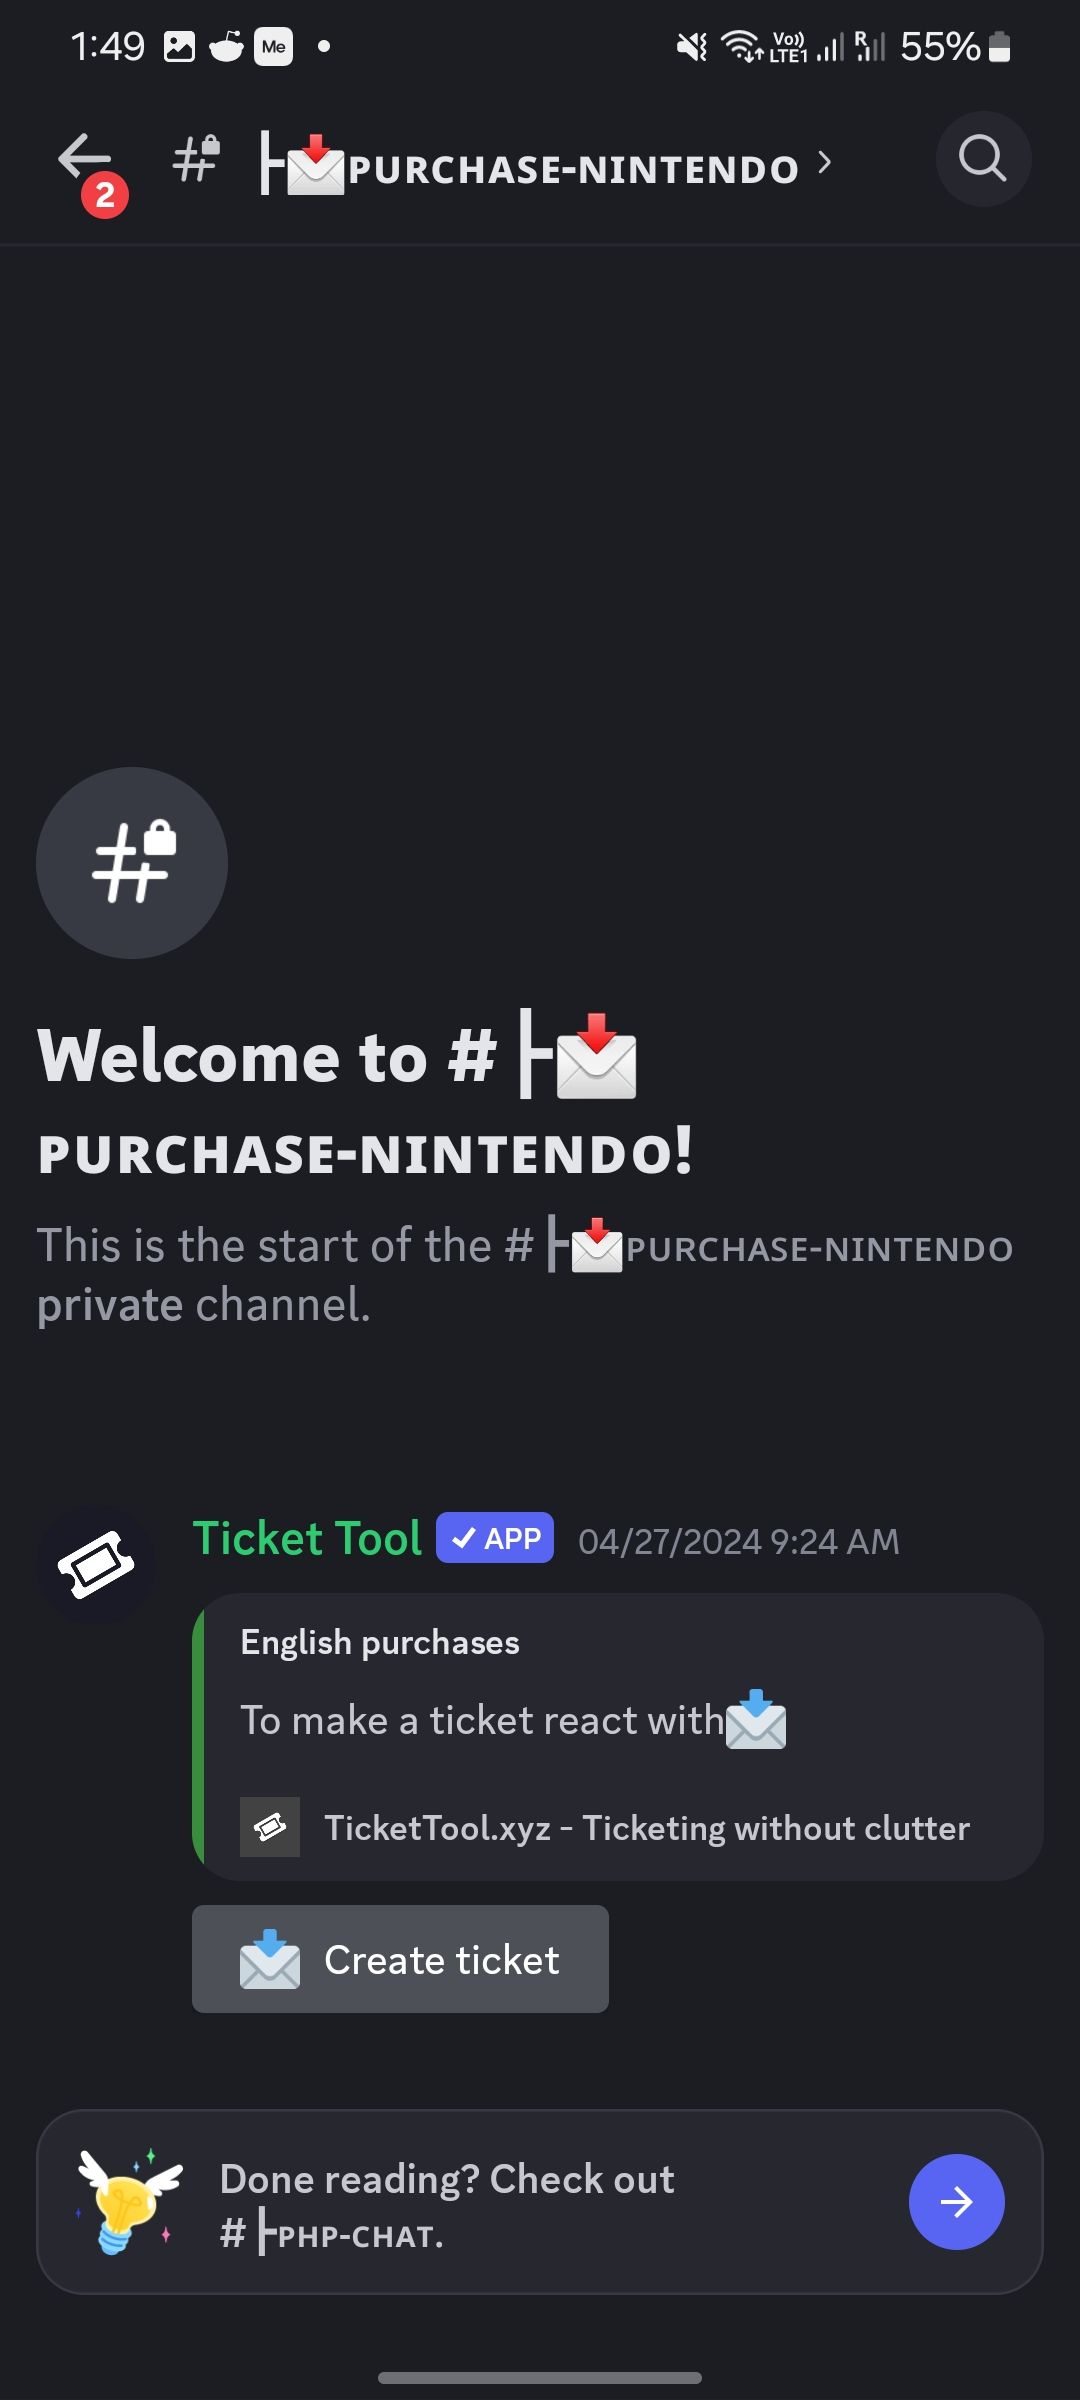
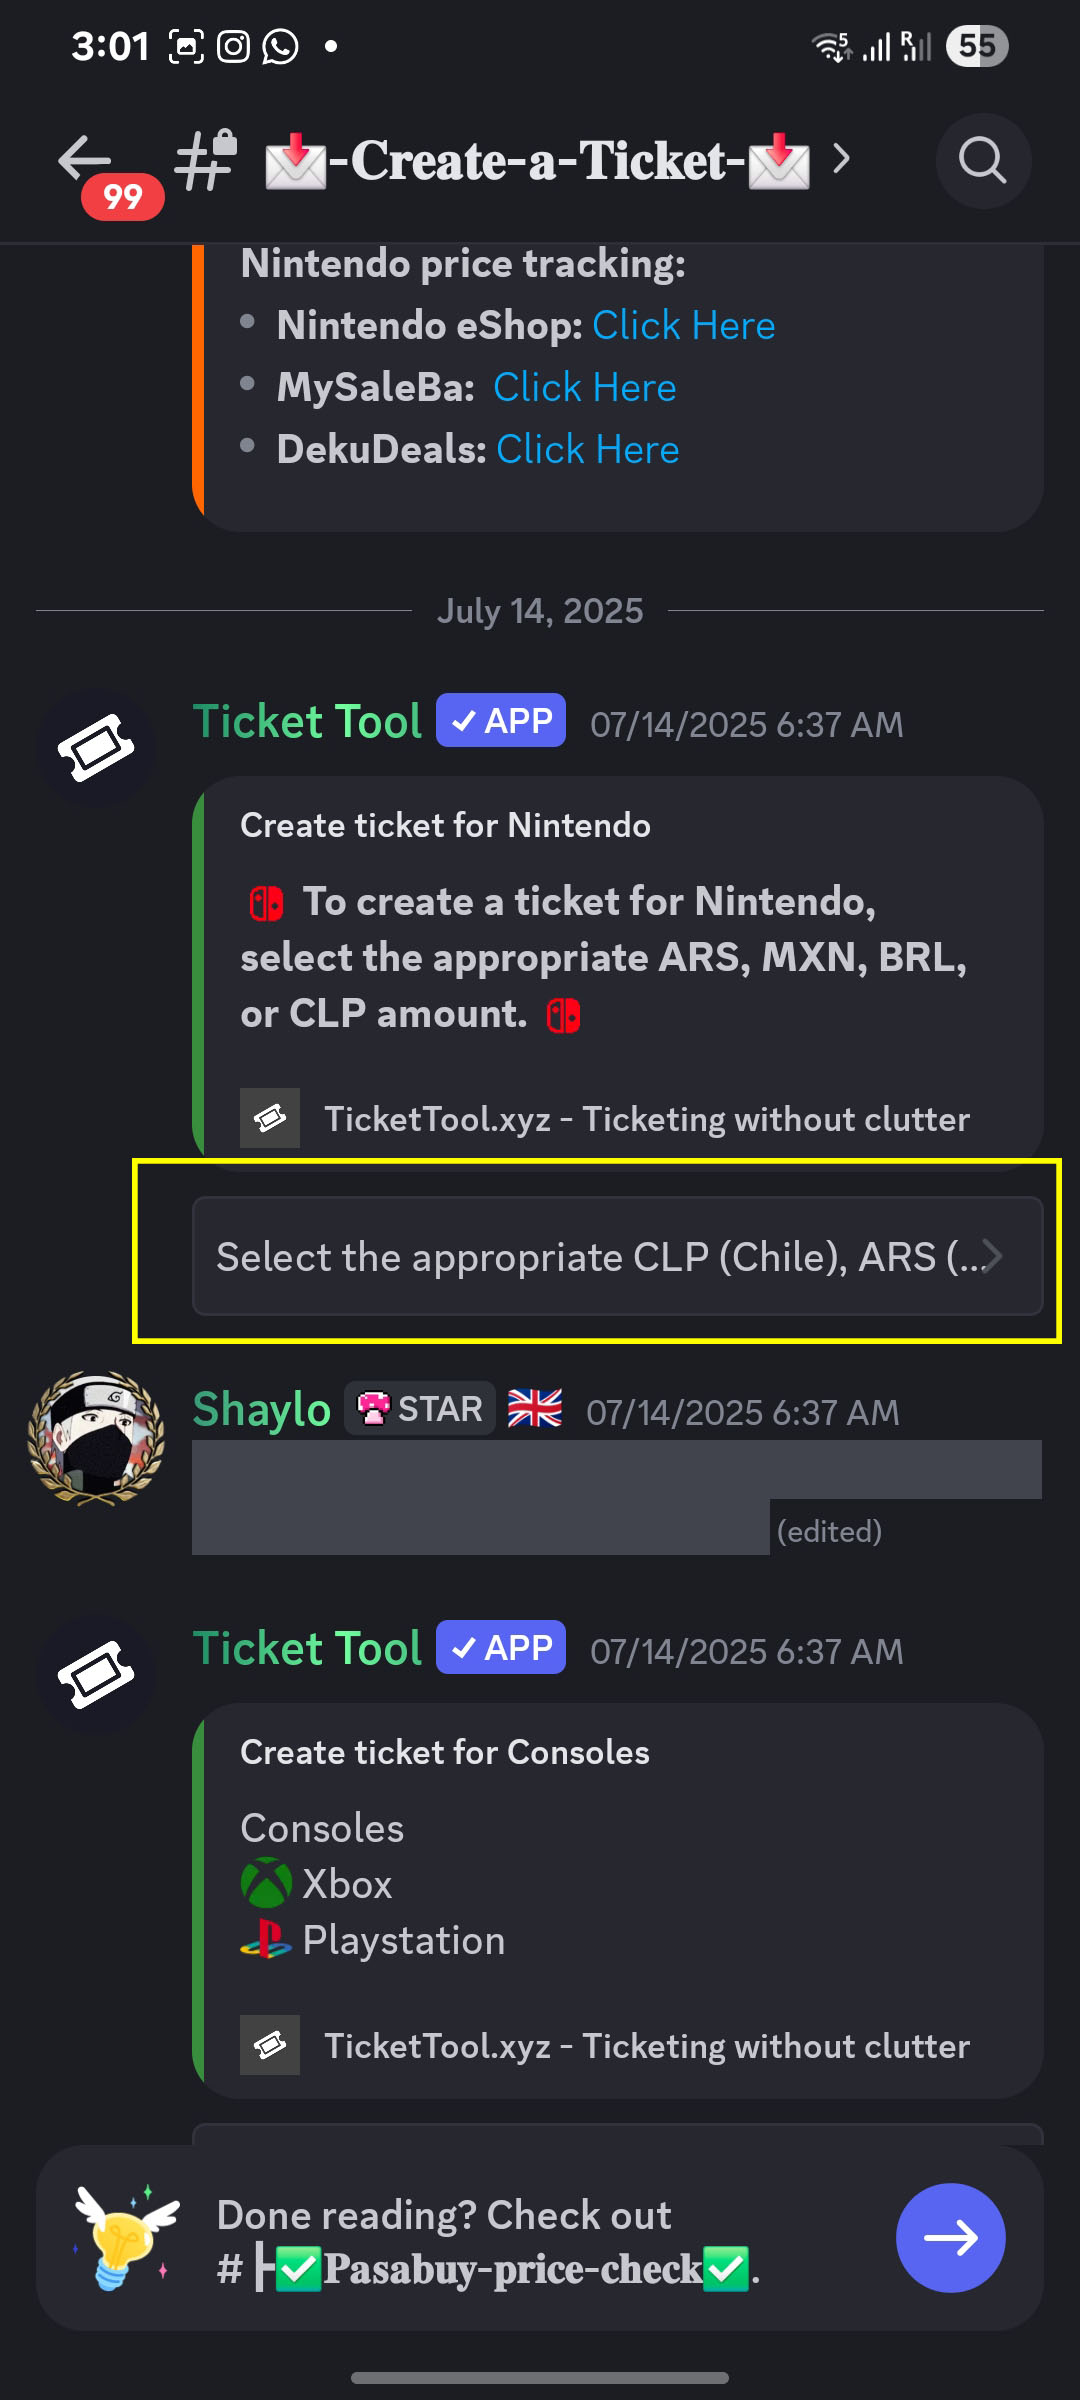
via scheduler

diff --git a/src/Pasabuy.js b/src/Pasabuy.js
@@ -563,7 +563,7 @@ const About = ({ filteredReviews, pageData, reviewsps }) => {
                 but concept should be similar across servers.
                 <br />
                 1. To place an order, look into the server's channel list and
-                select <b>PURCHASE-NINTENDO</b>
+                select <br/><b>Create-a-Ticket</b>
               </Grid>
             </Grid>
             <p />{" "}
@@ -572,7 +572,7 @@ const About = ({ filteredReviews, pageData, reviewsps }) => {
                 <CreateTicketModal />
               </Grid>
               <Grid item xs={8}>
-                2. On the PURCHASE-NINTENDO screen, select <b>Create Ticket</b>
+                2. On the Create-a-Ticket screen, navigate to the section you want to do top-up/pasabuy (Nintendo, PS4, PS5, Xbox). <br/>Tap on the amount dropdown.
               </Grid>
             </Grid>
             <p />
@@ -581,18 +581,19 @@ const About = ({ filteredReviews, pageData, reviewsps }) => {
                 <FormModal />
               </Grid>
               <Grid item xs={8}>
-                3. Fill out the form and select <b>Submit</b>
+                3. Select the service or denomination. You can choose a fixed top-up amount, <b>or if you only want to purchase a single game, choose Pasabuy Argentina</b>
                 <ul>
-                  <li>Service: Nintendo Top Up</li>
                   <li>
-                    Amount: See{" "}
+                    Note: The price for using Pasabuy for a single game will be slightly higher than using a fixed top-up. Please check with your support person for the exact amount.
+                  </li>
+                  <li> For top-ups, 
+                     See{" "}
                     <a className="giftcardlink" href="#rates">
-                      Denomination and Rates
+                      Top-up Rates
                     </a>
+
                   </li>
-                  <li>
-                    Payment Method: <i>(Maya, Gcash, PayPal, Binance)</i>
-                  </li>
+
                 </ul>
               </Grid>
             </Grid>
@@ -602,7 +603,7 @@ const About = ({ filteredReviews, pageData, reviewsps }) => {
                 <TicketModal />
               </Grid>
               <Grid item xs={8}>
-                4. A ticket will be created and added into the server's channel
+                4. Enter your preferred payment method and select <b>Submit</b> <br/>A ticket will be created and added into the server's channel
                 list. Wait for someone to message and guide you through the
                 process.
                 <p />
